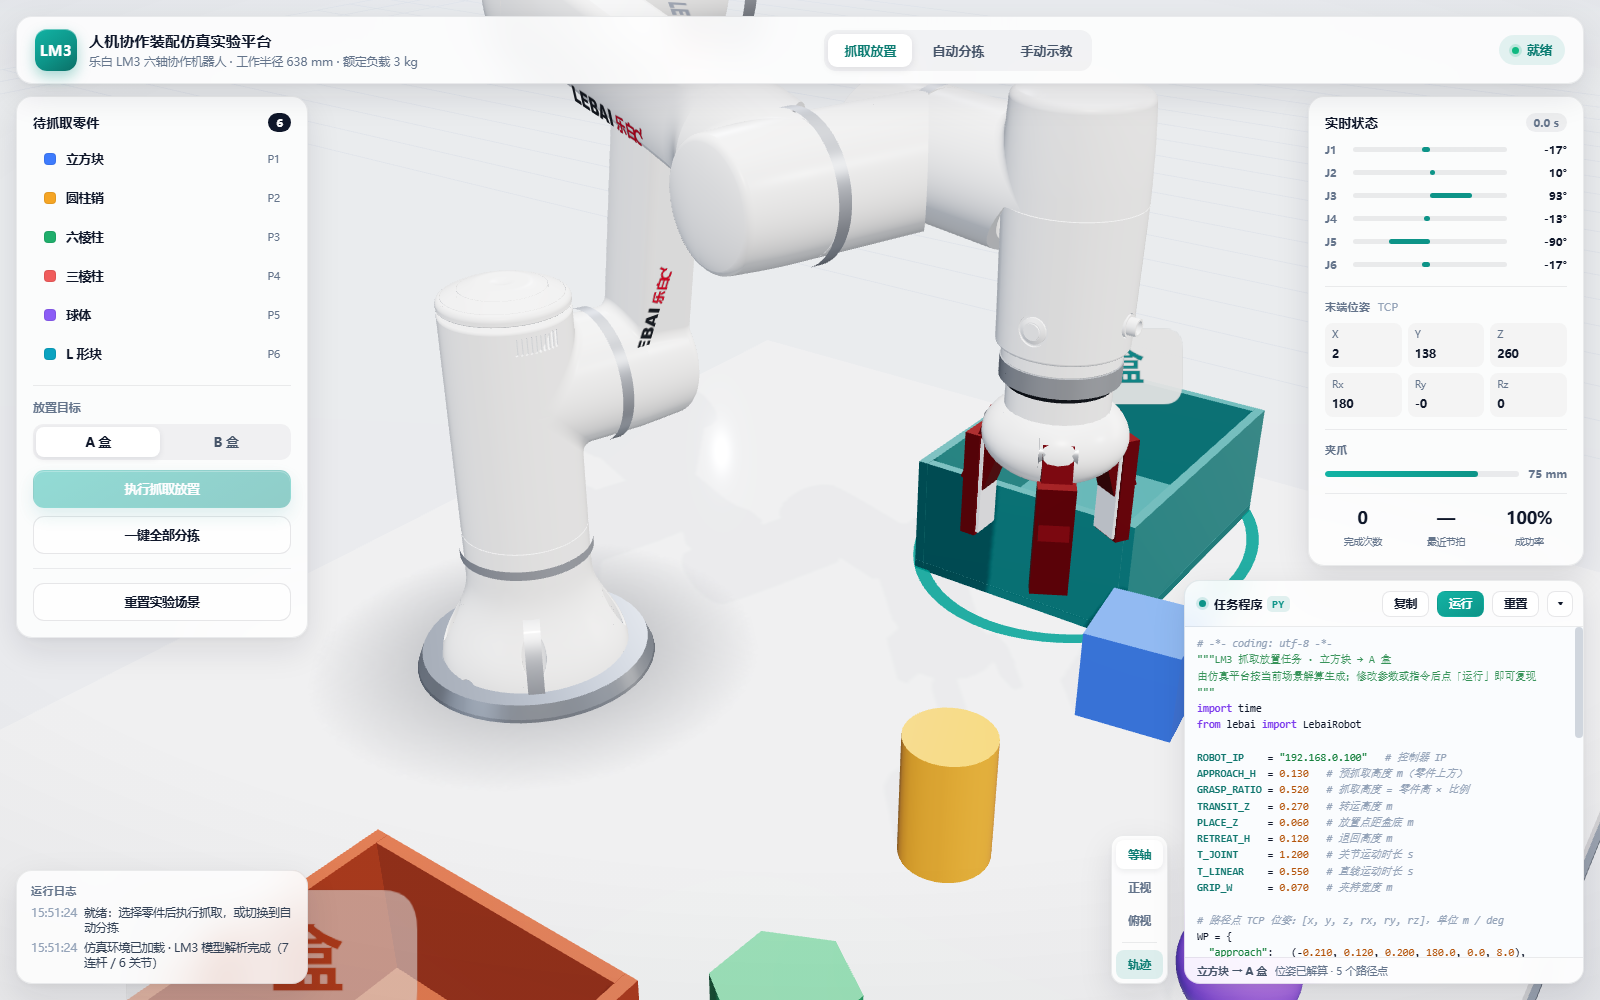
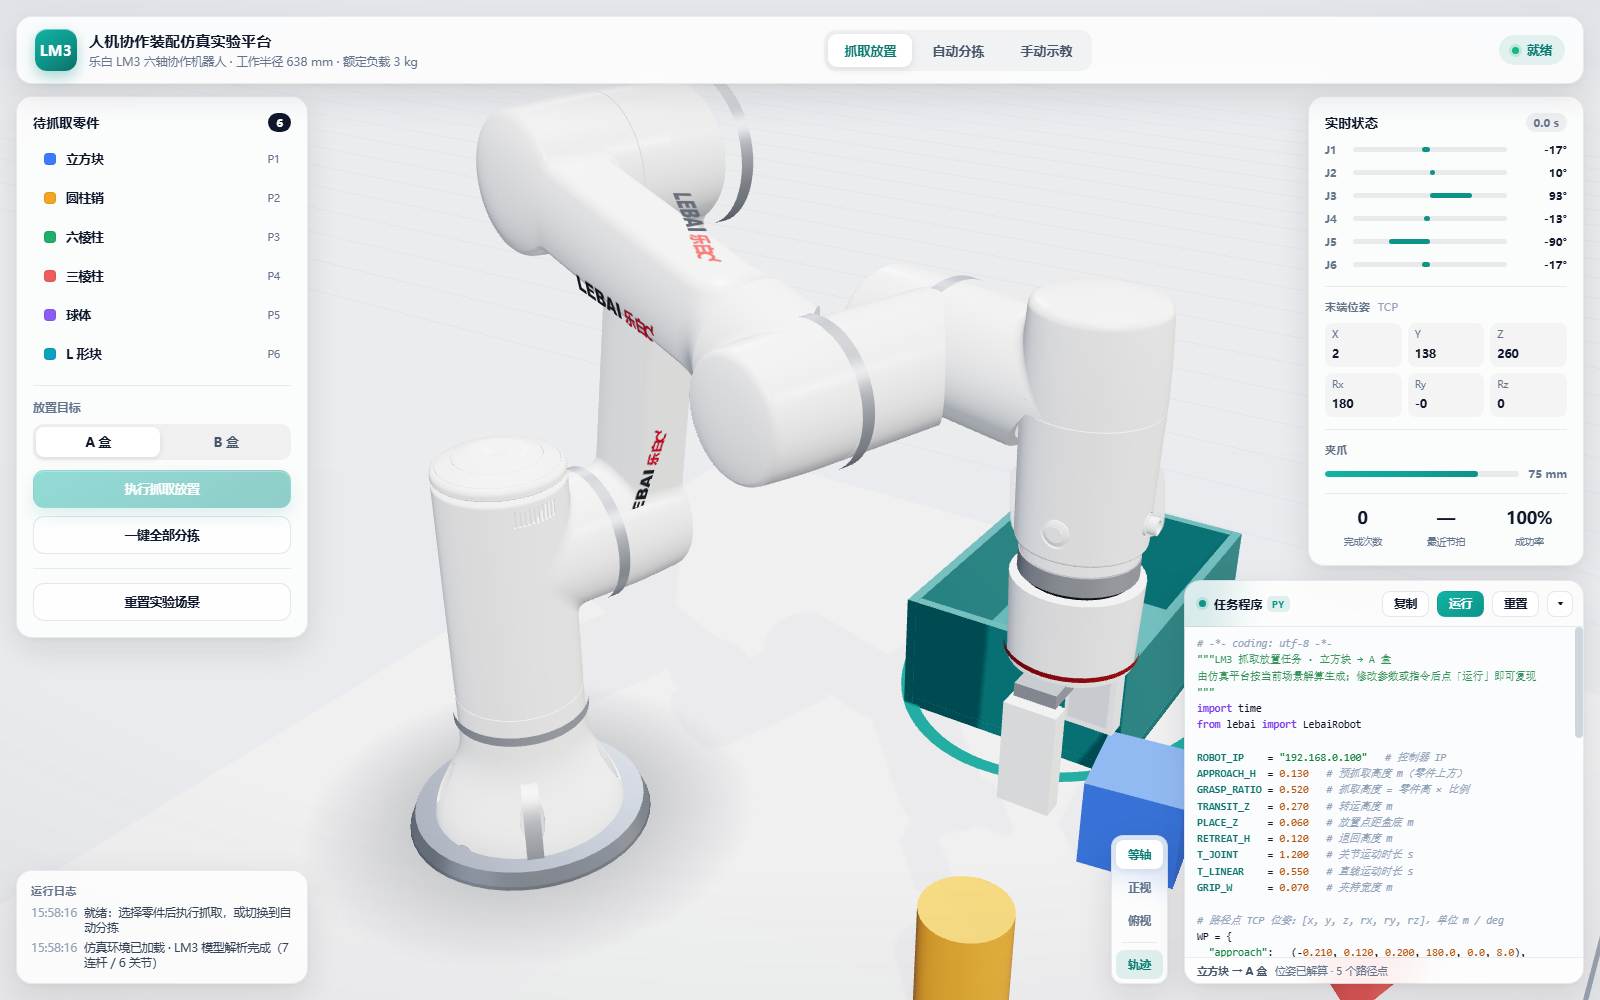
修正末端执行器：改回贴合官方首页 LM3 渲染的紧凑白色平行夹爪
- 移除上一版的 LMG-90 三指红臂造型（用户反馈与官方首页 LM3 不符）
- 末端改为白色圆筒本体 + 细红环点缀 + 白指灰垫的平行夹爪，与机身同涂装
- 抓放流程 CDP 自检通过，更新 overview.png / gripper.png 与 README

diff --git a/js/robot.js b/js/robot.js
@@ -242,52 +242,29 @@ export class Robot {
       g.add(m);
       return m;
     };
-    // 法兰连接盘
+    // 法兰连接盘（银色金属）
     add(new THREE.CylinderGeometry(0.032, 0.032, 0.011, 40), MAT.flange, [0, 0, 0.0055], [Math.PI / 2, 0, 0]);
-    // 分件线（深色金属接缝）
-    add(new THREE.CylinderGeometry(0.0285, 0.0285, 0.004, 32), MAT.dark, [0, 0, 0.0125], [Math.PI / 2, 0, 0]);
-    // 白色立柱（官方图中的白色圆柱连接座）
-    add(new THREE.CylinderGeometry(0.028, 0.028, 0.022, 32), MAT.shell, [0, 0, 0.025], [Math.PI / 2, 0, 0]);
-    // 白色圆顶本体
-    const dome = add(new THREE.SphereGeometry(0.039, 40, 24), MAT.shell, [0, 0, 0.044]);
-    dome.scale.set(1, 1, 0.62);
+    // 分件线（深色接缝）
+    add(new THREE.CylinderGeometry(0.029, 0.029, 0.003, 32), MAT.dark, [0, 0, 0.013], [Math.PI / 2, 0, 0]);
+    // 白色圆筒本体（与机身同涂装，贴合官方首页渲染）
+    add(new THREE.CylinderGeometry(0.034, 0.036, 0.05, 40), MAT.shell, [0, 0, 0.039], [Math.PI / 2, 0, 0]);
+    // 品牌细红环（仅一线，呼应 LEBAI 标识）
+    add(new THREE.CylinderGeometry(0.0362, 0.0362, 0.0028, 40, 1, true), MAT.accent, [0, 0, 0.058], [Math.PI / 2, 0, 0]);
+    // 下部导轨（浅灰）
+    add(new THREE.BoxGeometry(0.088, 0.024, 0.008), MAT.band, [0, 0, 0.067]);
 
-    // LMG-90 三指自定心夹爪：红色联动臂 + 灰色夹垫（对齐官方渲染图）
-    const PIVOT_R = 0.03, PIVOT_Z = 0.042, ARM_L = 0.05;
-    this.armParam = { r: PIVOT_R, z: PIVOT_Z, l: ARM_L };
+    // 两指平行夹爪：白色指身 + 灰色夹垫
     this.fingers = [];
-    for (let i = 0; i < 3; i++) {
-      const th = Math.PI / 2 + (i * Math.PI * 2) / 3; // 3 × 120° 均布
-      const root = new THREE.Group();
-      root.position.set(Math.cos(th) * PIVOT_R, Math.sin(th) * PIVOT_R, PIVOT_Z);
-      root.rotation.z = th;
-      g.add(root);
-
-      // 联动臂绕本地 y 轴（切向）摆动
-      const pivot = new THREE.Group();
-      root.add(pivot);
-
-      const arm = new THREE.Mesh(new THREE.BoxGeometry(ARM_L, 0.016, 0.015), MAT.finger);
-      arm.position.set(ARM_L / 2 - 0.005, 0, 0);
-      arm.castShadow = true;
-      pivot.add(arm);
-
-      // 铰链销（银色）
-      const pin = new THREE.Mesh(new THREE.CylinderGeometry(0.008, 0.008, 0.02, 20), MAT.flange);
-      pivot.add(pin);
-
-      // 夹垫组件：随臂展开后反向补偿，始终保持竖直
-      const pad = new THREE.Group();
-      pad.position.set(ARM_L - 0.005, 0, 0);
-      pivot.add(pad);
-      const bar = new THREE.Mesh(new THREE.BoxGeometry(0.009, 0.02, 0.062), MAT.finger);
-      bar.castShadow = true;
-      pad.add(bar);
-      const face = new THREE.Mesh(new THREE.BoxGeometry(0.002, 0.018, 0.058), MAT.pad);
-      face.position.set(-0.0055, 0, 0);
-      pad.add(face);
-
-      this.fingers.push({ pivot, pad });
+    for (const s of [-1, 1]) {
+      const f = new THREE.Mesh(new THREE.BoxGeometry(0.012, 0.03, 0.062), MAT.shell);
+      f.castShadow = true;
+      f.receiveShadow = false;
+      f.position.set(s * 0.043, 0, 0.104);
+      g.add(f);
+      const pad = new THREE.Mesh(new THREE.BoxGeometry(0.002, 0.024, 0.056), MAT.pad);
+      pad.position.set(-s * 0.007, 0, -0.002);
+      f.add(pad);
+      this.fingers.push({ mesh: f, side: s });
     }
   }
 
@@ -301,12 +278,9 @@ export class Robot {
 
   applyGripper() {
     if (!this.fingers) return;
-    // 联动臂摆角 γ：使夹垫内工作面半径 = 开合的一半（自定心）
-    const half = this.gripperOpen / 2;
-    const g = Math.acos(THREE.MathUtils.clamp((half - 0.0235) / 0.045, -1, 1));
-    for (const f of this.fingers) {
-      f.pivot.rotation.y = -g; // 臂向外抬起
-      f.pad.rotation.y = g;   // 反向补偿，夹垫保持竖直
+    // 平行夹爪：指沿导轨对称滑移，夹垫内工作面间距 = 开合量
+    for (const { mesh, side } of this.fingers) {
+      mesh.position.x = side * (this.gripperOpen / 2 + 0.006);
     }
   }
 

diff --git a/README.md b/README.md
@@ -45,7 +45,7 @@ python -m http.server 8123
 | --- | --- |
 | 操作桌面 | 1220 × 940 mm 工作台，台面为安装基准面（z = 0），带桌腿与横梁 |
 | LM3 机器人 | 来自 `乐白机器人三维模型-LM3.stp`，7 个连杆（ARM0–ARM6）、6 个旋转关节，高约 895 mm；涂装对齐官网渲染图：缎面白机身 + 关节浅银灰环带 + 深灰 LEBAI 标识（红色图形字）+ 基座呼吸状态灯环 |
-| 末端夹爪 | 复刻 LMG-90 造型：白色圆顶本体 + 三指 120° 红色联动臂（银色铰链销、灰色夹垫自定心），开口 14–95 mm |
+| 末端夹爪 | 紧凑型白色平行夹爪（贴合官方首页 LM3 渲染：白色圆筒本体 + 细红环点缀 + 灰色夹垫），开口 14–95 mm |
 | 待抓零件 | 立方块、圆柱销、六棱柱、三棱柱、球体、L 形块，共 6 件，尺寸 55–90 mm，分两排布置在机器人正前方 |
 | 料盒 | A 盒（青）、B 盒（陶土红），260 × 190 × 100 mm，每个盒子 2×2 放置位 |
 
@@ -99,7 +99,7 @@ python -m http.server 8123
 │  ├─ kinematics.js        LM3 运动学（FK / Jacobian / DLS-IK）
 │  ├─ planner.js           路径点解算、程序生成与解析（可编辑 DSL）
 │  ├─ pathviz.js           路径点标记、规划连线、TCP 轨迹
-│  ├─ robot.js             模型加载、LMG-90 三指夹爪、关节插补与直线运动
+│  ├─ robot.js             模型加载、末端夹爪、关节插补与直线运动
 │  ├─ scene.js             桌面、料盒、零件、灯光与环境
 │  ├─ studio.js            产品影棚环境（PMREM 柔光棚，近似官方渲染）
 │  └─ app.js               交互逻辑、任务编排、界面刷新
